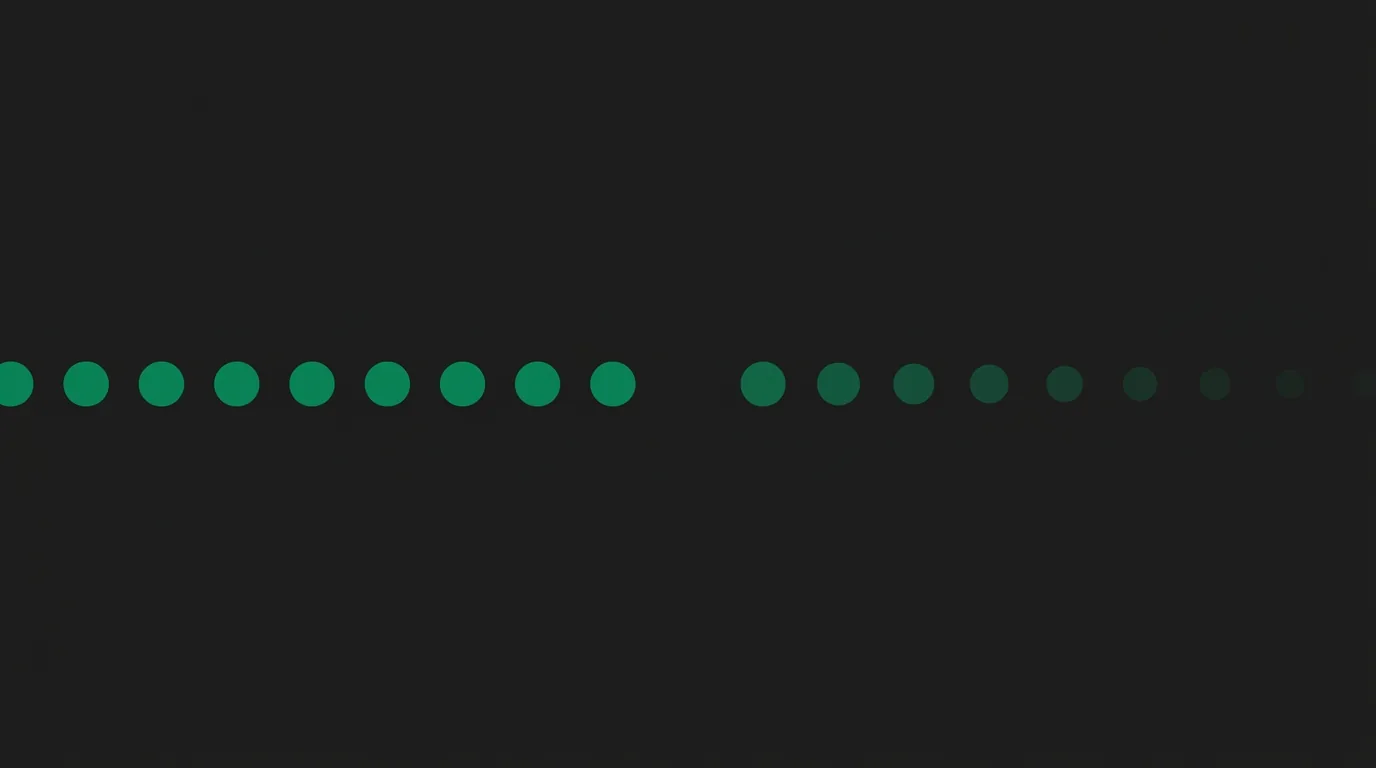
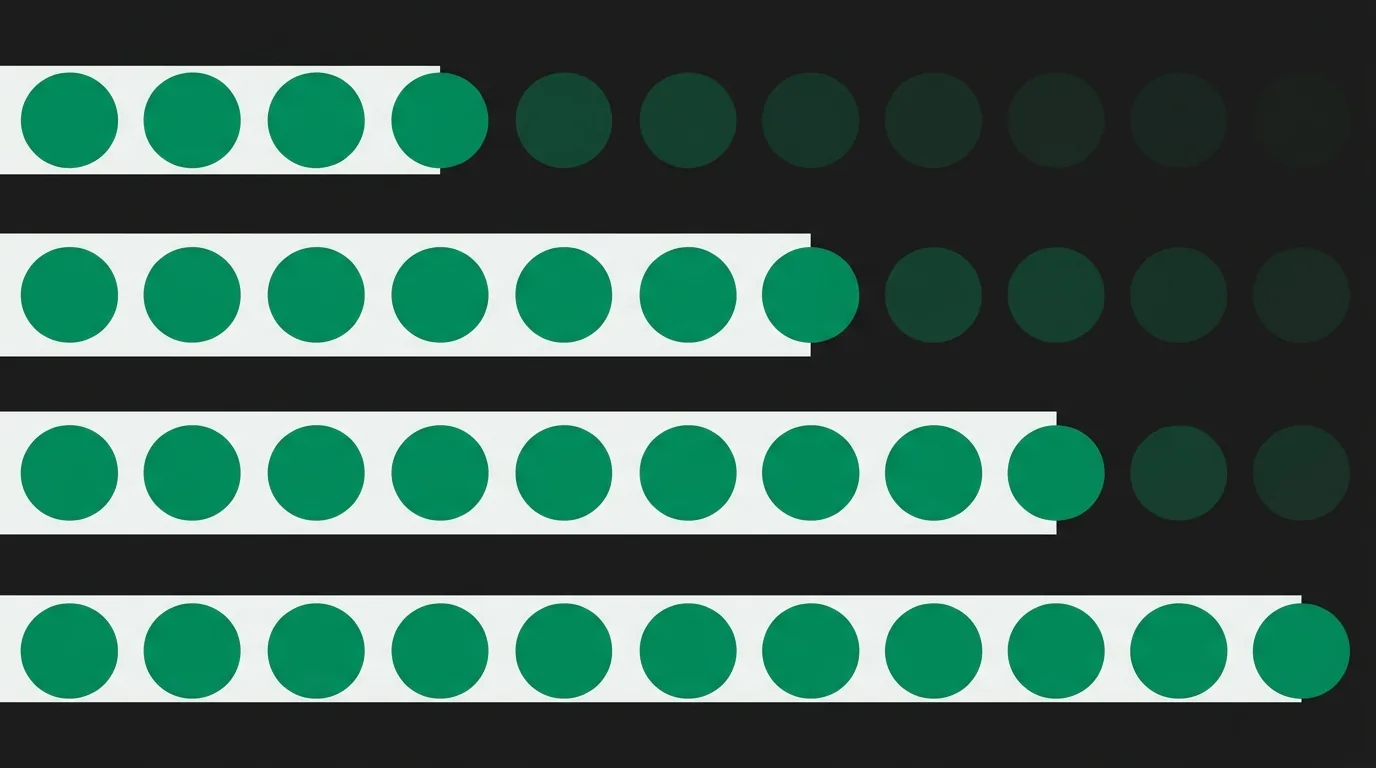
fix: картинка урока была отдельной плитой на весь экран
Владелец, глядя на страницу: «почему она на весь экран, нахуя она заполняет
весь экран, не понятно». Плюс убрать рамку и положить заголовок ПОВЕРХ
картинки, а не над ней.

ТРИ МОИ ПОПЫТКИ ДО ЭТОГО БЫЛИ ОДНОЙ И ТОЙ ЖЕ ОШИБКОЙ. Сначала я поставил
изображение как есть, 16:9 во всю ширину колонки: на широком экране это блок
примерно 1100 на 620 точек, забирающий первый экран целиком. Потом сделал из
него полосу 5:2 — плита стала ниже и осталась плитой. Потом перерисовал два
слабых сюжета, чтобы они заполняли кадр, — плита стала плотнее и осталась
плитой.

Я всё это время двигал размер, а вопрос был не про размер. Картинка
СОСЕДСТВОВАЛА с заголовком, то есть была самостоятельным объектом, который
надо разглядывать, и при этом ничего не объясняла — вся объясняющая работа у
схем ниже.

СТАЛО: заголовок лежит НА картинке. Она перестаёт быть объектом и становится
фоном шапки — работает на страницу, а не спорит с ней. Высота 16:6 на телефоне
и 16:5 на настольном экране вместо 16:9 во всю ширину.

Рамку убрал, и это не только просьба: у фона рамка обводит его как картину и
возвращает ровно то ощущение отдельной плиты, от которого уходим.

КОНТРАСТ ПОСЧИТАН, А НЕ ПРИКИНУТ. У картинок есть светлые фигуры (#EEF1F0), и
белый заголовок на них без заливки читался бы плохо. Тёмная заливка снизу
(from-black/90) даёт в худшем случае — белый текст ровно над светлой фигурой —
заголовок 17.76 при пороге 3.0 и подпись модуля 9.15 при пороге 4.5.
[…]

diff --git a/components/pages/AcademyLessonPage.tsx b/components/pages/AcademyLessonPage.tsx
@@ -1,6 +1,6 @@
 import React from 'react';
 import { ArrowRight, ArrowUpRight } from 'lucide-react';
-import { PageHeader } from '../ui/PageHeader';
+import { Breadcrumbs } from '../ui/Breadcrumbs';
 import AcademyDiagram from '../ui/AcademyDiagram';
 import SEO from '../ui/SEO';
 import {
@@ -53,39 +53,70 @@ const AcademyLessonPage: React.FC<AcademyLessonPageProps> = ({ slug, onNavigate 
 
       <div className="min-h-screen bg-ivory dark:bg-[#191919] pt-16 md:pt-20 pb-20">
         <div className="container mx-auto px-6 pt-4 md:pt-6">
-          <PageHeader
-            breadcrumbs={[
+          <Breadcrumbs
+            className="mb-6"
+            items={[
               { label: 'Home', action: () => onNavigate('home') },
               { label: 'Academy', action: () => onNavigate('academy') },
               { label: `Module ${урок.module}` },
             ]}
-            badge={модуль ? `Module ${урок.module} · ${модуль.name}` : 'Academy'}
-            title={урок.title}
-            description={урок.summary}
-            onNavigate={onNavigate}
           />
 
-          {урок.image && (
-            /*
-              Заглавная картинка. width и height проставлены, чтобы страница не
-              прыгала при её загрузке; loading="eager" потому что она первая на
-              экране, и ленивая загрузка тут дала бы мигание, а не экономию.
-            */
-            <img
-              src={урок.image.src}
-              alt={урок.image.alt}
-              width={1376}
-              height={768}
-              loading="eager"
-              decoding="async"
-              className="w-full max-w-3xl rounded-card mb-12 border border-black/5 dark:border-white/10"
-            />
-          )}
+          {/*
+            ШАПКА УРОКА: заголовок ЛЕЖИТ НА картинке, а не под ней.
+
+            Три предыдущие правки этого места были попытками уместить картинку
+            рядом с текстом, и все три давали одно и то же: отдельную плиту,
+            которая забирает первый экран и ничего не объясняет. Сначала 16:9 во
+            всю ширину, потом полоса 5:2 — плита просто становилась ниже.
+
+            Правильный ответ оказался другой: картинка не соседствует с
+            заголовком, она под ним. Тогда она перестаёт быть самостоятельным
+            объектом, который надо разглядывать, и становится фоном — работает
+            на страницу, а не спорит с ней.
+
+            Тёмная заливка снизу обязательна и держит контраст: у картинок есть
+            светлые фигуры (#EEF1F0), и белый заголовок на них без заливки
+            читался бы хуже нормы. Замер худшего случая (белый текст ровно над
+            светлой фигурой): заголовок 17.76 при пороге 3.0, подпись модуля
+            9.15 при пороге 4.5.
+
+            Рамки нет намеренно: у фона рамка обводит его как картину и
+            возвращает ровно то ощущение отдельной плиты, от которого уходим.
+          */}
+          <header className="relative w-full max-w-4xl aspect-[16/6] md:aspect-[16/5] rounded-card overflow-hidden mb-10">
+            {урок.image ? (
+              <img
+                src={урок.image.src}
+                alt=""
+                width={1376}
+                height={768}
+                loading="eager"
+                decoding="async"
+                className="absolute inset-0 w-full h-full object-cover object-center"
+              />
+            ) : (
+              <div className="absolute inset-0 bg-black/90" />
+            )}
+            <div className="absolute inset-0 bg-gradient-to-t from-black/90 via-black/70 to-black/30" />
+            <div className="relative h-full flex flex-col justify-end p-6 md:p-8">
+              <span className="text-[11px] font-semibold tracking-wide text-white/70 mb-2">
+                Module {урок.module}{модуль ? ` · ${модуль.name}` : ''}
+              </span>
+              <h1 className="font-display text-2xl md:text-4xl font-normal text-white leading-tight">
+                {урок.title}
+              </h1>
+            </div>
+          </header>
+
+          <p className="max-w-2xl text-text-secondary dark:text-white/70 text-base md:text-[17px] leading-relaxed mb-3">
+            {урок.summary}
+          </p>
+          <p className="max-w-2xl text-xs text-text-secondary dark:text-white/45 mb-10">
+            {readingMinutes(урок)} min read
+          </p>
 
           <article className="max-w-2xl">
-            <p className="text-xs text-text-secondary dark:text-white/45 mb-10">
-              {readingMinutes(урок)} min read
-            </p>
 
             {урок.sections.map((раздел, номер) => (
               <section key={раздел.heading} className="mb-10">
